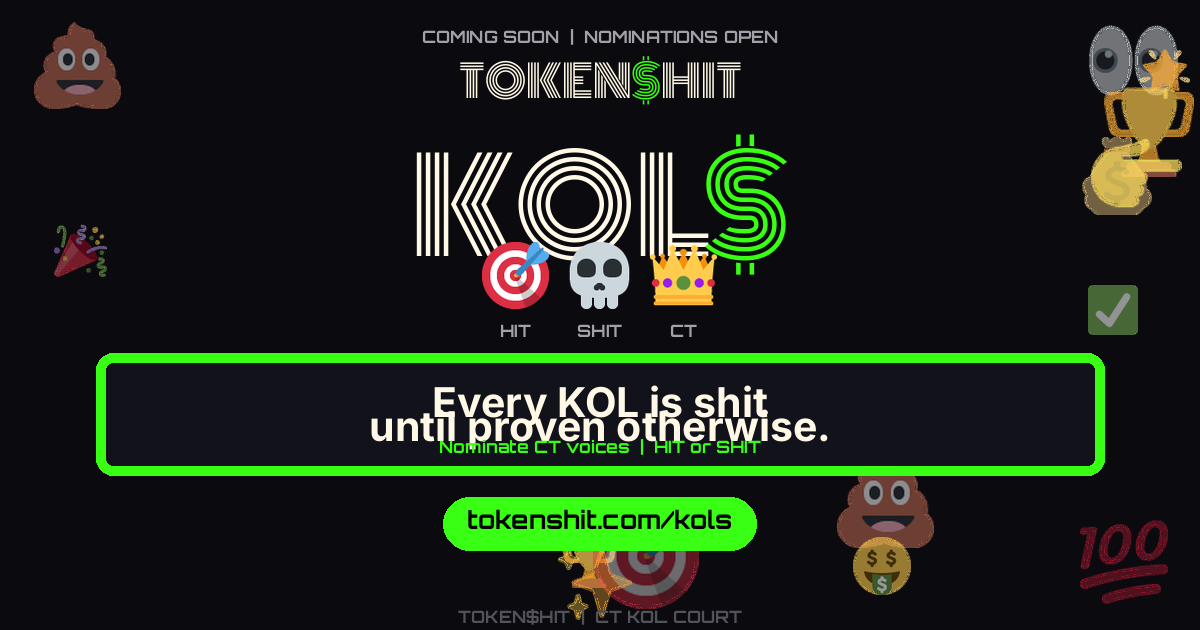
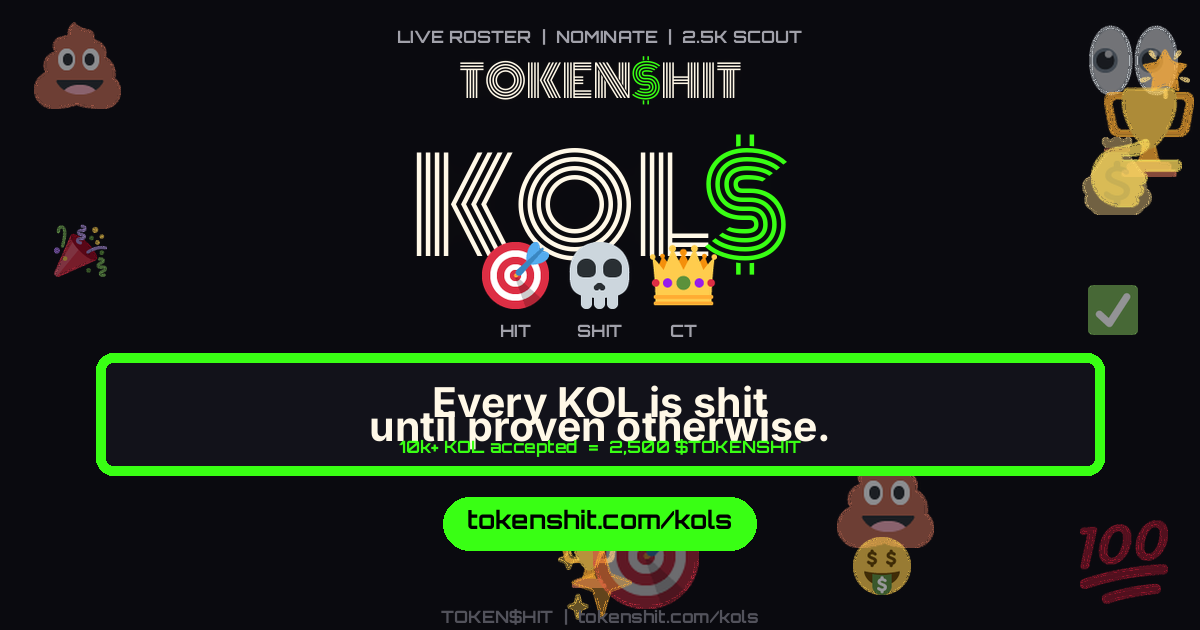
feat: KOL court poster — live roster + 2.5k scout bounty (#352)
Regenerate feed/story/square/OG brand assets.

Changed region(s): [[0.3392, 0.0302, 0.6783, 0.0905], [0.3392, 0.6937, 0.6783, 0.7238], [0.37, 0.9651, 0.6475, 0.9952]]

diff --git a/scripts/generate-kols-poster.py b/scripts/generate-kols-poster.py
@@ -158,7 +158,7 @@ def make_poster(size: tuple[int, int], tag: str) -> Image.Image:
         y = int(h * 0.04)
 
     # eyebrow
-    eye = "COMING SOON  |  NOMINATIONS OPEN"
+    eye = "LIVE ROSTER  |  NOMINATE  |  2.5K SCOUT"
     ew = text_w(orb_sm, eye)
     draw.text(((w - ew) // 2, y), eye, font=orb_sm, fill=MUTED)
     y += fs(36)
@@ -220,7 +220,7 @@ def make_poster(size: tuple[int, int], tag: str) -> Image.Image:
         "Every KOL is shit",
         "until proven otherwise.",
     ]
-    sub = "Nominate CT voices  |  HIT or SHIT"
+    sub = "10k+ KOL accepted  =  2,500 $TOKENSHIT"
     card_h = fs(200) if wide else fs(340)
     rounded_rect(
         draw,
@@ -263,13 +263,13 @@ def make_poster(size: tuple[int, int], tag: str) -> Image.Image:
     y += ch + fs(28)
 
     # footer
-    foot = "SCOUT  |  NOMINATE  |  RATE"
+    foot = "SCOUT 2.5K  |  NOMINATE  |  HIT OR SHIT"
     if not wide:
         fw = text_w(orb_sm, foot)
         draw.text(((w - fw) // 2, min(y, h - fs(50))), foot, font=orb_sm, fill=DIM)
 
     # bottom brand strip safe
-    url2 = "TOKEN$HIT  |  CT KOL COURT"
+    url2 = "TOKEN$HIT  |  tokenshit.com/kols"
     u2w = text_w(orb_sm, url2)
     draw.text(((w - u2w) // 2, h - fs(42)), url2, font=orb_sm, fill=DIM)
 
